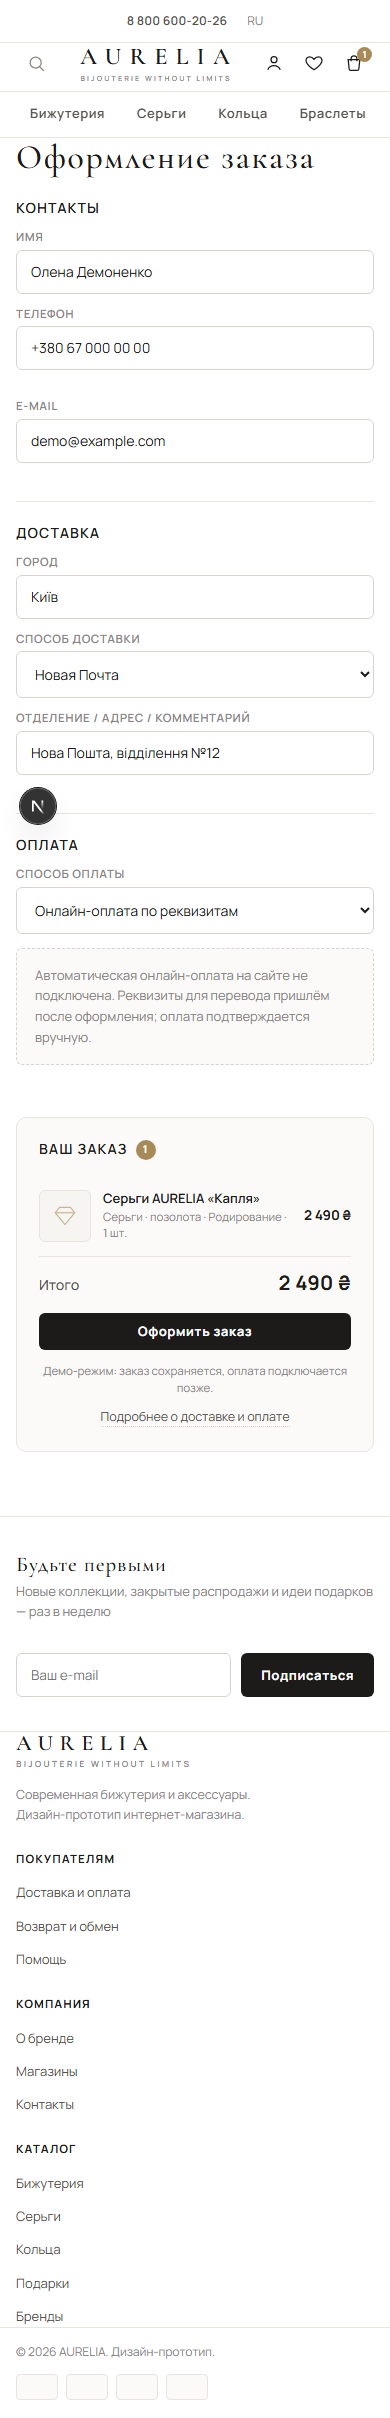
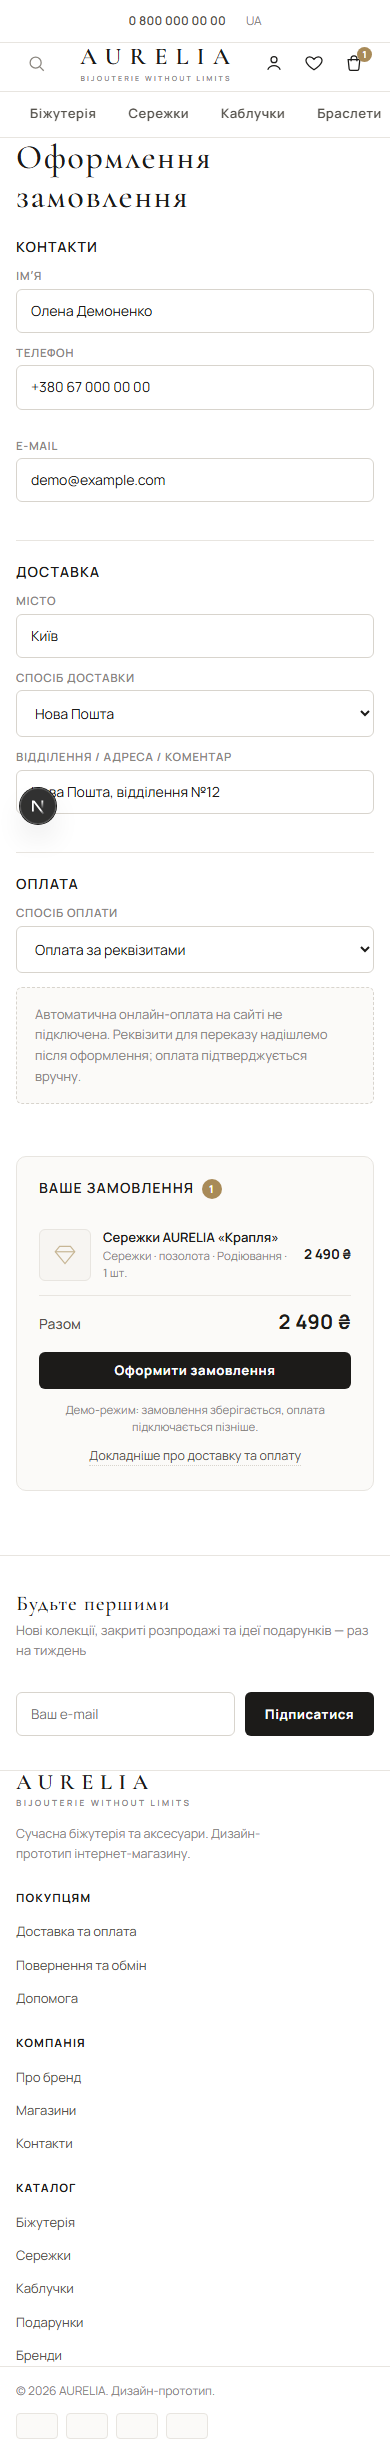
docs: refresh Ukrainian demo screenshots

diff --git a/docs/sale/UK_UA_LOCALIZATION_READINESS.md b/docs/sale/UK_UA_LOCALIZATION_READINESS.md
@@ -202,6 +202,23 @@ Russian area:
 - **Deferred:** **screenshots need re-capture in 39D** (35B dev + 36A production sets
   still show the old Russian catalog). **Admin** localization still deferred.
 
+### 39D result (done)
+
+- **Screenshots re-captured in Ukrainian** — both the production set
+  (`screenshots/production/`, 7 files, no dev «N») and the dev/interactive/admin set
+  (`screenshots/`, 9 files). Storefront/cart/checkout/order now show the Ukrainian UI
+  **and** the Ukrainian catalog.
+- **Admin** shots keep the **Russian admin chrome (by design/internal)**, but the
+  **catalog data inside them is now Ukrainian** (product names, variant «Родіювання»);
+  production admin is still 404 by design.
+- **New demo orders** created via the real checkout (fictional data): `AUR-44D34A71`
+  (production confirmation) and `AUR-5B0E1514` (dev confirmation + admin order card).
+  Existing `AUR-C205BFBF` / `AUR-C33C3360` **not modified** (their snapshots stay
+  frozen RU — historical).
+- Screenshots are **demo assets, not production-deployment proof**. The old numbered
+  static set (`01-…`–`10-…`) shows the previous Russian storefront and is **stale**
+  (superseded by the production set; not re-captured).
+
 ## 9. Readiness gates before code
 
 - [ ] **Target language confirmed:** uk-UA only **vs** bilingual ru/uk (decides whether

diff --git a/docs/sale/DEMO_RUNBOOK.md b/docs/sale/DEMO_RUNBOOK.md
@@ -134,6 +134,13 @@
 35B. Детали и оговорки — в
 [`DEMO_SCREENSHOT_CHECKLIST.md`](./DEMO_SCREENSHOT_CHECKLIST.md).
 
+**Переснято на украинский (этап 39D):** после локализации (39B/39C) витринные,
+корзина/чекаут/подтверждение скриншоты — и production, и dev/интерактив/админка —
+**пересняты украинскими** (витрина + каталог). Хром админки остаётся русским
+(by design), но данные каталога в нём уже украинские. Новые демо-заказы для съёмки:
+`AUR-44D34A71` (production) и `AUR-5B0E1514` (dev/админка); старые `AUR-C205BFBF`/
+`AUR-C33C3360` не изменялись. Старая статика `01-…`–`10-…` устарела (русская витрина).
+
 > **Это локальные dev-скриншоты, а не финальные маркетинговые ассеты.** В углу виден
 > маленький индикатор Next.js dev («N») — артефакт dev-сборки, на проде его нет.
 > Для «чистых» ассетов снимать против production-сборки или обрезать индикатор
